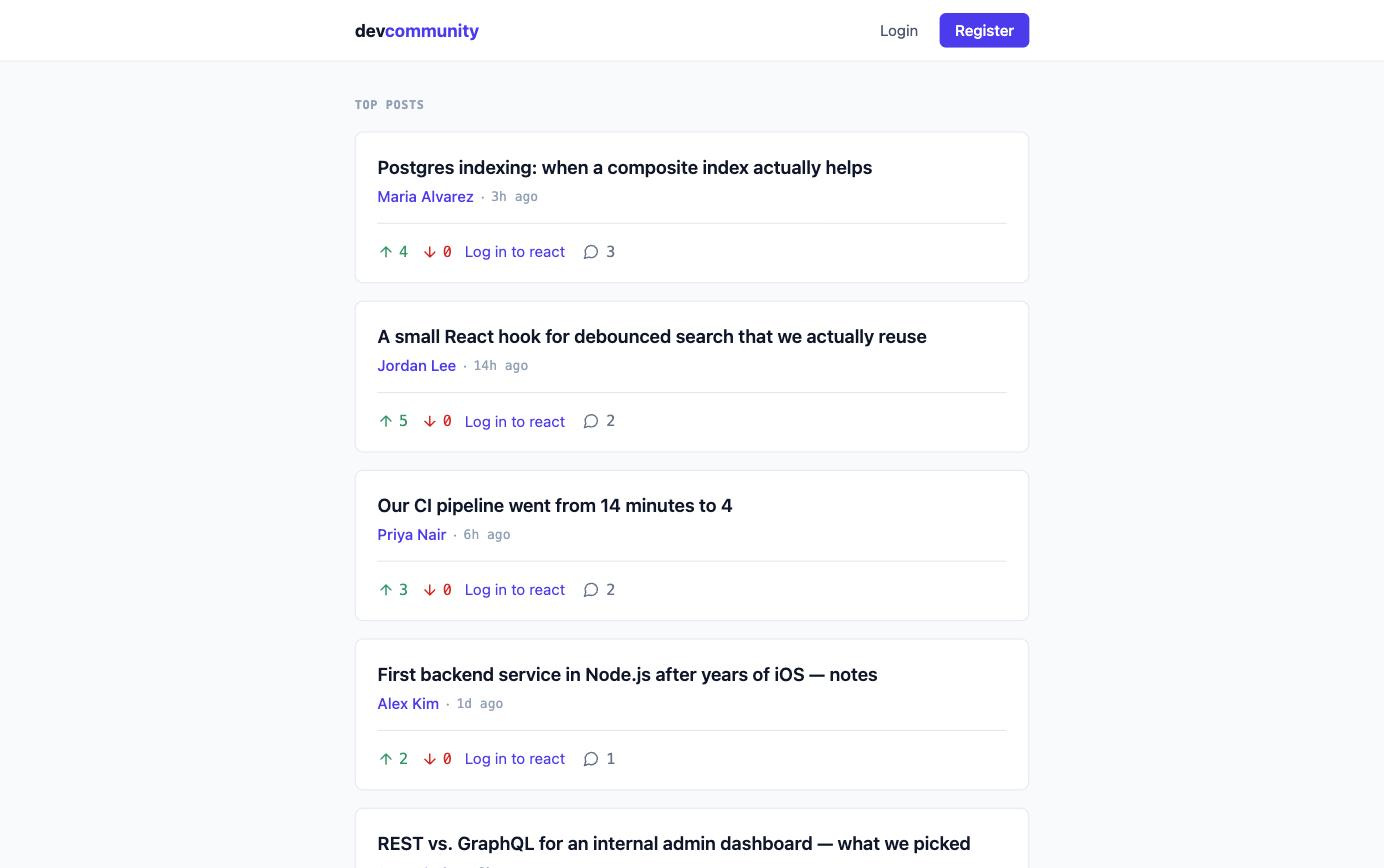
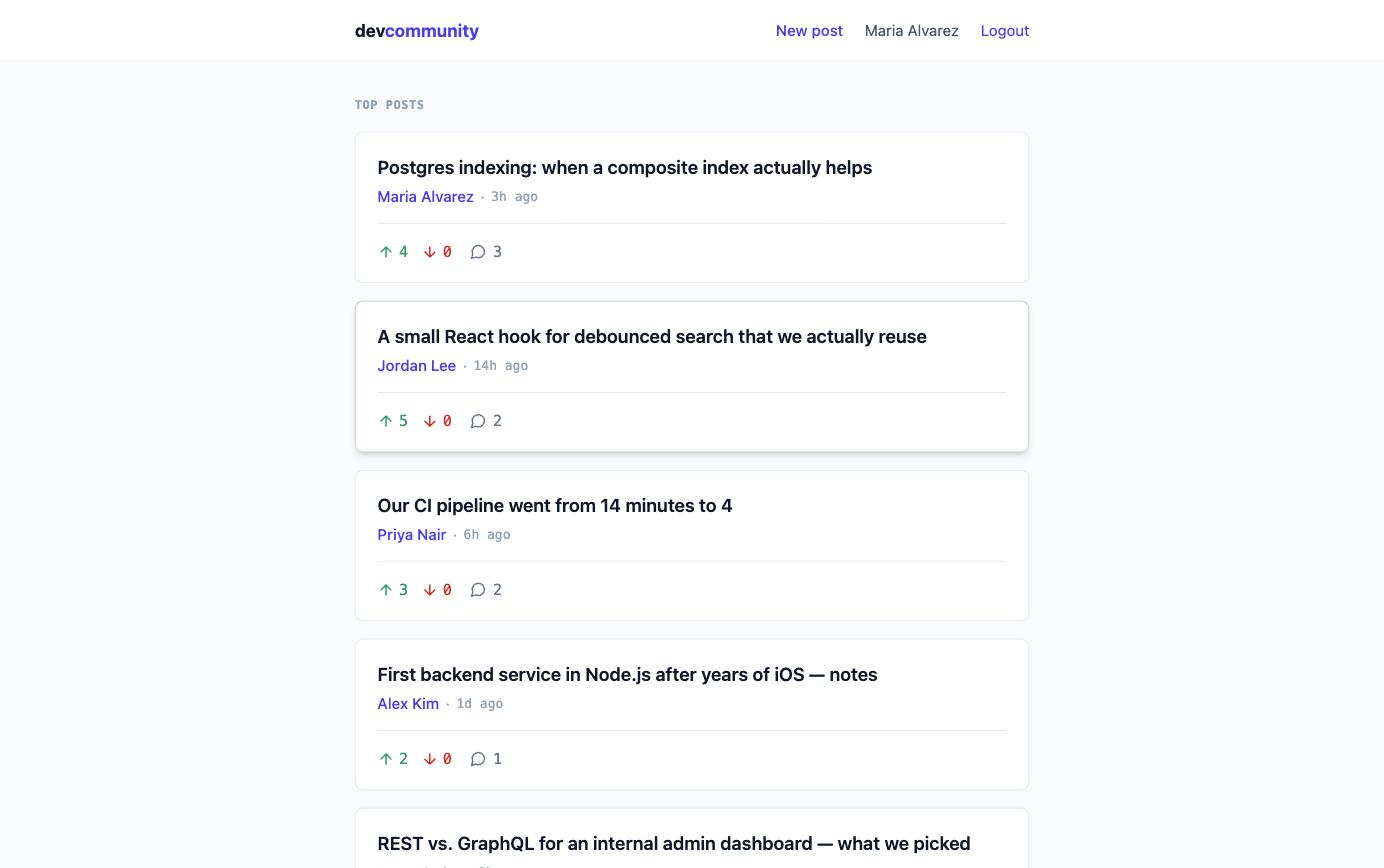
Expand README screenshots to a full feature gallery
Adds a logged-in feed view plus post detail/comments, developer
profile (skills + experience), and new-post screens so the README
shows the app's core features, not just the logged-out landing page.

Claude-Session: https://claude.ai/code/session_01V948VNHzXGovK8oFgTgCj8

diff --git a/README.md b/README.md
@@ -2,7 +2,15 @@
 
 A developer community app — posts, threaded comments, like/dislike reactions, a ranked feed, and developer profiles (skills + experience). Built for the 6sense Agentic Software Engineer intern take-home assignment (see `Agentic Engineering Intern Assignement.md` and `docs/PRD.md` for product intent).
 
-![Dev Community feed screenshot](docs/screenshots/feed.jpg)
+## Screenshots
+
+| Ranked feed | Post detail + threaded comments |
+|---|---|
+| ![Feed](docs/screenshots/feed.jpg) | ![Post detail](docs/screenshots/post-detail.jpg) |
+
+| Developer profile (skills + experience) | New post |
+|---|---|
+| ![Profile](docs/screenshots/profile.jpg) | ![New post](docs/screenshots/new-post.jpg) |
 
 ## Tech stack
 
@@ -33,7 +41,7 @@ Monorepo layout:
   server/             Express + JavaScript + Prisma API  (server/prisma/schema.prisma, server/src/...)
   client/             Vite + React SPA (JavaScript/JSX)  (client/src/...)
   docs/               spec-driven docs: PRD, ADRs, per-phase specs and plans
-    screenshots/      app screenshots used in this README
+    screenshots/      app screenshots used in this README (feed, post detail, profile, new post)
   docker-compose.yml
 ```
 
